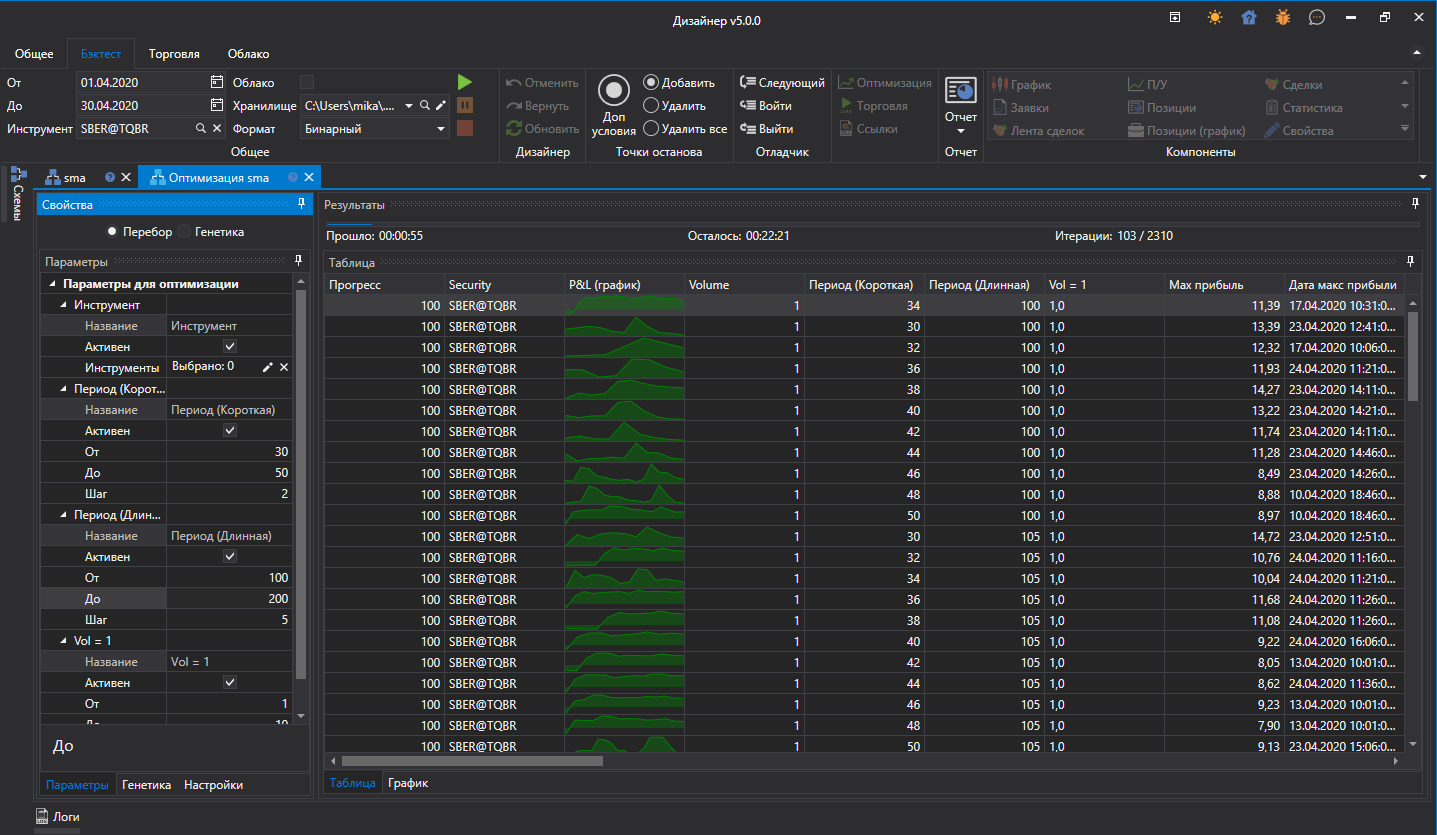
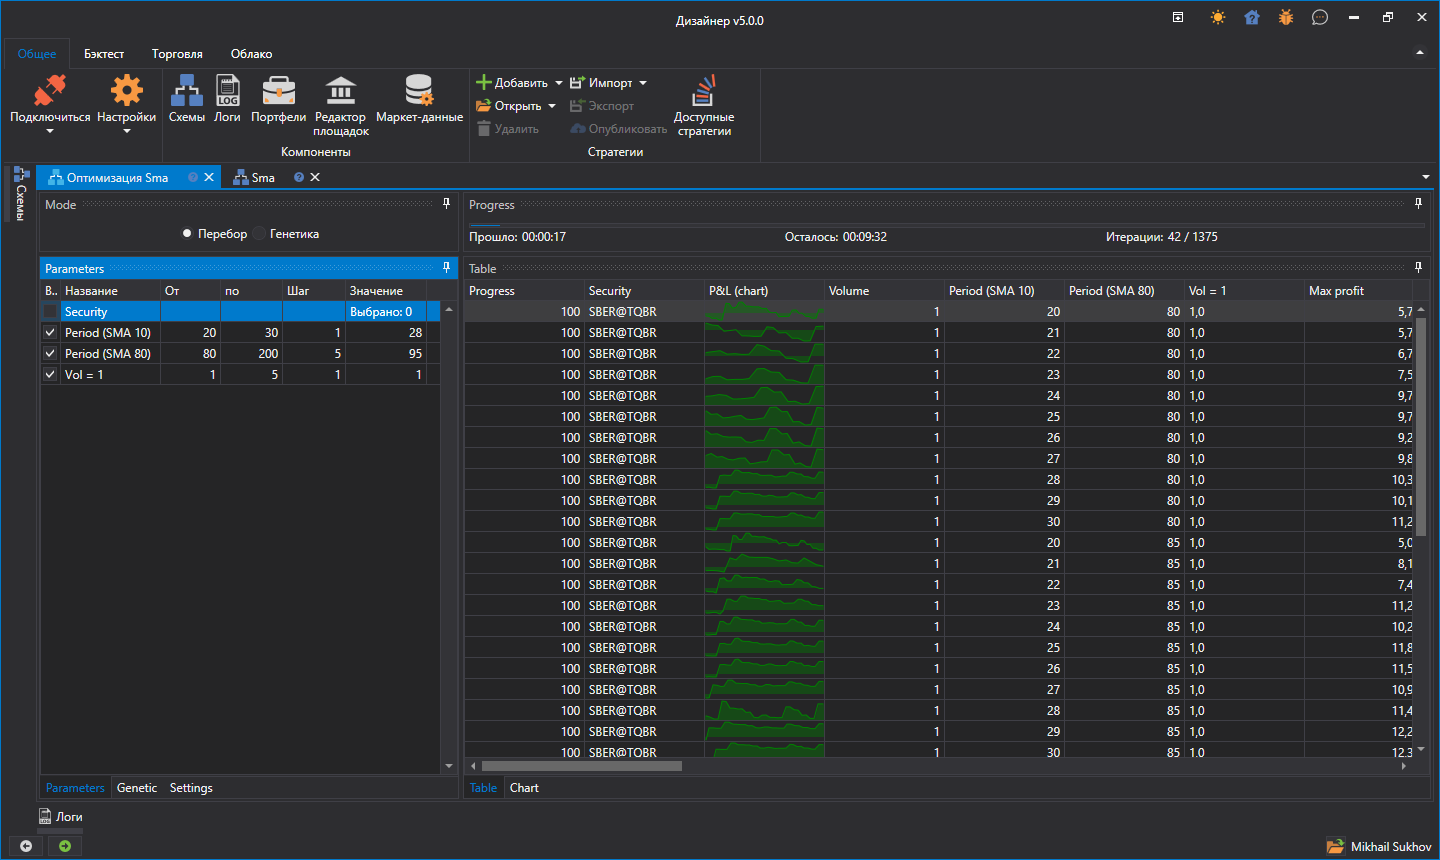
Fix commit b4540ab8d1096be524ccd9f2550f46e192ffb546

diff --git a/ru/topics/Designer_Optimization.md b/ru/topics/Designer_Optimization.md
@@ -1,24 +1,17 @@
 # Перебор (брут-форс)
 
-Чтобы перейти в режим оптимизации стратегии необходимо нажать на ккнопку **Оптимизация** на вкладке **Эмуляция**.
+Чтобы перейти в режим оптимизации стратегии необходимо нажать на ккнопку **Оптимизация** на вкладке **Эмуляция**. Пример оптимизации будет рассмотрена на примере стратегии SMA, созданной [из кубиков](Designer_Algorithm_creation_of_elements.md).
 
 ![Designer Optimization 00](../images/Designer_Optimization_00.png)
 
-В рабочей области откроется вкладка с названием Оптимизация + «Имя стратегии». Вкладка **Оптимизация** разделена на три зоны, **Свойства**, **Параметры для оптимизации**, **Результат оптимизации**: 
-
-- В зоне **Свойства** можно изменить настройки эмуляции, основные параметры схемы.
-- Зона **Результат оптимизации** представляет из себя таблицу, каждая строчка которой результат тестирования стратегии с уникальными параметрами. Также в зоне **Результат оптимизации** есть прогресс бар, показывающий прогресс оптимизации, прошедшее время, и расчетное время до конца оптимизации.
-- Зона **Параметры для оптимизации** представляет из себя две таблицы. Таблица сверху \- это перечень параметров стратегии, которые можно оптимизировать. Таблица снизу настраивает диапазон оптимизации и шаг оптимизации для параметра, выбранного в верхней таблице.
-
-Далее оптимизация будет рассмотрена на примере стратегии SMA. Если в стратегии SMA без предварительной подготовки нажать кнопку **Оптимизация**, то из параметров оптимизации будет только один Volume. Для того, чтобы добавить периоды скользящих средних как параметры оптимизации, необходимо в кубике Индикаторе SMA установить флажок **Параметр**:
-
-![Designer Optimization 01](../images/Designer_Optimization_01.png)
-
-После установки флажка **Параметр** в необходимых блоках для оптимизации, и нажав на кнопку **Оптимизация**, откроется вкладка **Оптимизация SMA**:
+В рабочей области откроется вкладка с названием Оптимизация + «Имя стратегии». Вкладка **Оптимизация** разделена на две зоны, **Свойства**, **Результат оптимизации**: 
 
 ![Designer Optimization 02](../images/Designer_Optimization_02.png)
 
-В примере взят один параметр оптимизации Длина короткой скользящей средней Short SMA, от 10 до 20 с шагом 1. Всего получается 11 стратегий SMA с разными параметрами.
+- Зона **Свойства** представляет из себя закладки с несколькими таблицами. Первая - это параметры стратегии, по которым [происходит перебор](Designer_Optimization_Params.md). Вторая - настройки [генетики](Designer_Genetic.md). Третья - системные настройки оптимизатора. Например, там можно менять количество потоков и ядер, участвующих в оптимизации.
+- Зона **Результат оптимизации** представляет из себя таблицу, каждая строчка которой результат тестирования стратегии с уникальными параметрами. Также в зоне **Результат оптимизации** есть прогресс бар, показывающий прогресс оптимизации, прошедшее время, и расчетное время до конца оптимизации. Дополнительно присутствует закладка для отображения результатов ввиде [3D графика](Designer_Optimization_3D_Chart.md).
+
+Задав параметры для перебора, итогово получается больше 1000 итераций. После запуска оптимизатора вверху над результатами будет показан прогресс с данными о том, сколько планируется итераций, сколько их уже выполнено и сколько примерно времени требуется до полного окончания:
 
 ![Designer Optimization 03](../images/Designer_Optimization_03.png)
 

diff --git a/ru/topics/Designer_Optimization_Params.md b/ru/topics/Designer_Optimization_Params.md
@@ -1,0 +1,26 @@
+# Параметры оптимизации
+
+Оптимизация производится по параметрам стратегии, имеющие следующий тип:
+
+- числовые (целочисленные и дробные)
+- время ([TimeSpan](xref:System.TimeSpan))
+- булевое значение (Истина-Ложь)
+- [Unit](Unit.md) значение
+
+По-умолчанию все параметры с этими типами будут представлены в таблице [параметров оптимизатора](Designer_Optimization.md). В случае, если необходимо отключить какой-то параметр из оптимизации, то:
+
+- в случае [схемы](Designer_Creating_strategy_out_of_blocks.md) необходимо выбрать нужный кубик, открыть его свойство, переключиться на **Расширенные настройки** и выключить флажок **Параметр**:
+
+![Designer Optimization 01](../images/Designer_Optimization_01.png)
+
+- в случае [кода](Designer_Creating_strategy_from_code.md) необходимо прописать код при определении параметра, и изменить свойство [CanOptimize](xref:StockSharp.Algo.Strategies.IStrategyParam.CanOptimize):
+
+```cs
+_long = this.Param(nameof(Long), 80);
+_short = this.Param(nameof(Short), 20);
+			
+// turn off param for optimization
+_long.CanOptimize = false;
+```
+
+После изменения доступных параметров оптимизации необхоимо переоткрыть [панель с оптимизацией](Designer_Optimization.md).

diff --git a/en/topics/Designer_Optimization_Params.md b/en/topics/Designer_Optimization_Params.md
@@ -1,0 +1,26 @@
+# Optimization Parameters
+
+Optimization is performed on strategy parameters that have the following types:
+
+- Numerical (integer and fractional)
+- Time ([TimeSpan](xref:System.TimeSpan))
+- Boolean value (True-False)
+- [Unit](Unit.md) value
+
+By default, all parameters with these types will be represented in the [optimizer parameters table](Designer_Optimization.md). If it is necessary to exclude some parameter from the optimization, then:
+
+- In the case of a [diagram](Designer_Creating_strategy_out_of_blocks.md), it is necessary to select the required cube, open its property, switch to **Advanced settings** and turn off the **Parameter** checkbox:
+
+![Designer Optimization 01](../images/Designer_Optimization_01.png)
+
+- In the case of [code](Designer_Creating_strategy_from_code.md), you need to write code when defining a parameter and change the [CanOptimize](xref:StockSharp.Algo.Strategies.IStrategyParam.CanOptimize) property:
+
+```cs
+_long = this.Param(nameof(Long), 80);
+_short = this.Param(nameof(Short), 20);
+			
+// turn off param for optimization
+_long.CanOptimize = false;
+```
+
+After changing the available optimization parameters, it is necessary to reopen the [optimization panel](Designer_Optimization.md).

diff --git a/ru/topics/RunnerVSIntegration.md b/ru/topics/RunnerVSIntegration.md
@@ -18,6 +18,12 @@
 
 ![runner_debug_02](../images/runner_debug_02.png)
 
+Аргументы командной строки для примера:
+
+```cmd
+l -s "$(TargetPath)" -c "C:\StockSharp\Runner\Data\connection.json" --sec BTCUSDT_PERPETUAL@BNB --pf Binance_-298049655_Futures
+```
+
 $(TargetPath) - это специальный макрос **Visual Studio**, который при запуске отладки автозаменяется на путь к скомпилированной DLL со стратегией.
 
 4. Закрыть окно с настройками проекта, и запустить отладку проекта (например, через F5). Появится окно с программой **Runner**, которое будет выводить на экран процесс подключения к торгам:

diff --git a/ru/topics/Designer_Genetic.md b/ru/topics/Designer_Genetic.md
@@ -17,3 +17,6 @@
   ![Designer_Optimization_Genetic_02](../images/Designer_Optimization_Genetic_02.png)
 
   Например, сделать расчет не только по **Прибыли**, но так же относительно ее к **Максимальной Просадке**. Доступные математические функции аналогичны кубику [Формула](Designer_Universal_formula.md).
+
+> [!TIP]
+> Оптимизация через генетику не детерминирована. Поэтому определение точного количества итераций и, как следствие, необходимого общего времени - невозмжожно в отличие от [перебора через брут-форс](Designer_Optimization.md).

diff --git a/en/topics/RunnerVSIntegration.md b/en/topics/RunnerVSIntegration.md
@@ -18,6 +18,12 @@ In the tab that appears, find the **Debug** item, select the **General** section
 
 ![runner_debug_02](../images/runner_debug_02.png)
 
+Command line arguments for the example:
+
+```cmd
+l -s "$(TargetPath)" -c "C:\StockSharp\Runner\Data\connection.json" --sec BTCUSDT_PERPETUAL@BNB --pf Binance_-298049655_Futures
+```
+
 $(TargetPath) - is a special **Visual Studio** macro that is automatically replaced with the path to the compiled DLL with the strategy during debugging launch.
 
 4. Close the project settings window, and start the project debugging (for example, through F5). The **Runner** program window will appear, displaying the trading connection process:

diff --git a/en/topics/Designer_Genetic.md b/en/topics/Designer_Genetic.md
@@ -17,3 +17,6 @@ To enable **Genetic** optimization, you need to:
   ![Designer_Optimization_Genetic_02](../images/Designer_Optimization_Genetic_02.png)
 
   For example, make calculations not only by **Profit** but also relative to its **Maximum Drawdown**. Available mathematical functions are similar to the [Formula](Designer_Universal_formula.md) block.
+
+> [!TIP]
+> Optimization through genetics is not deterministic. Therefore, determining the exact number of iterations and, consequently, the necessary total time is impossible, unlike [brute-force search](Designer_Optimization.md).
